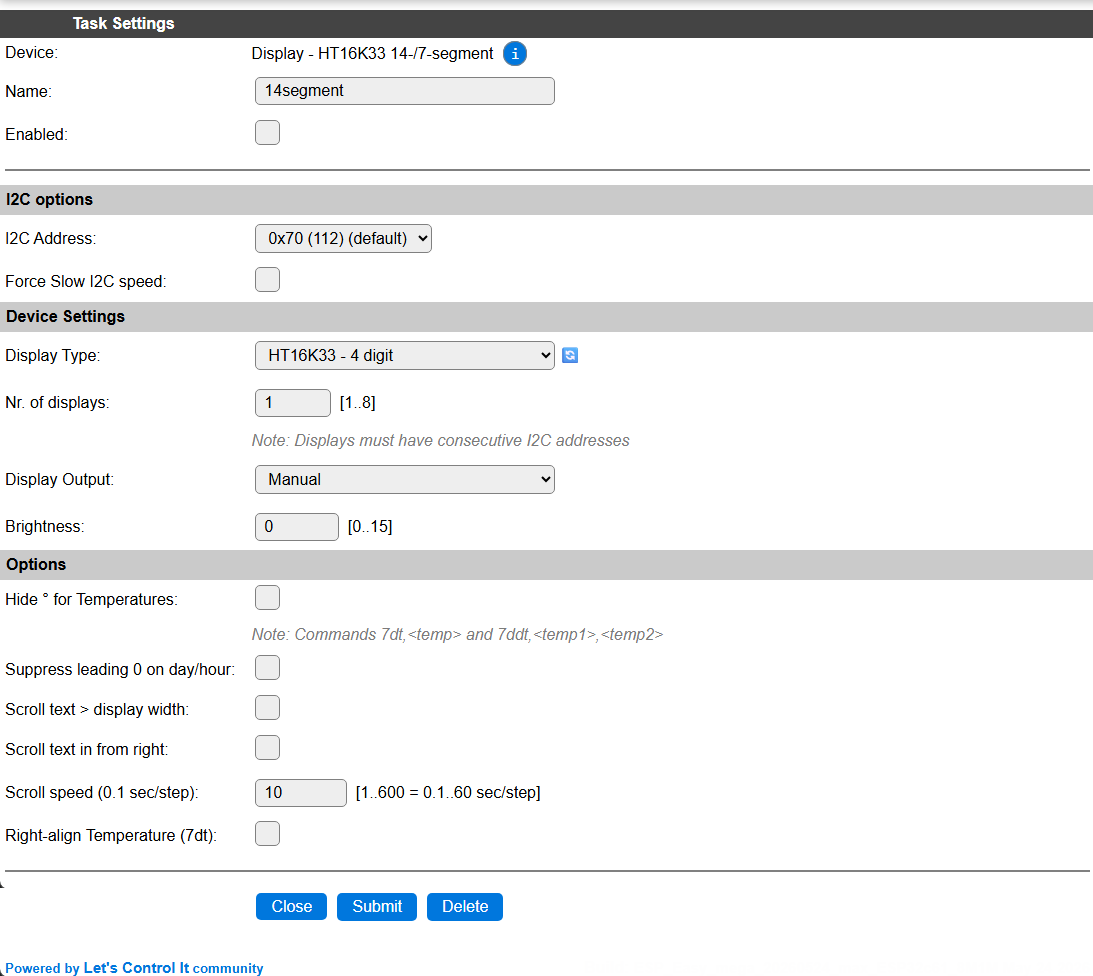
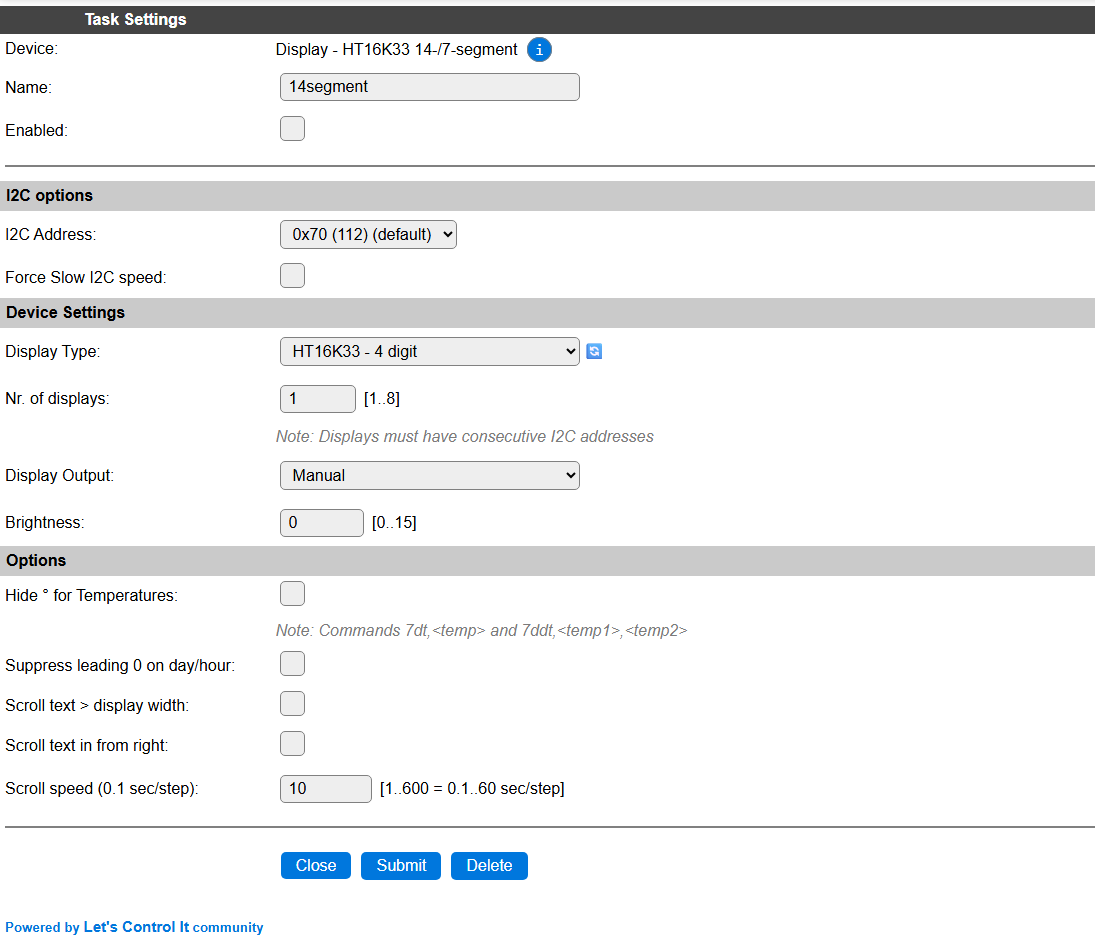
[P157] Update documentation

Changed region(s): [[0.0, 0.0, 1.0, 0.8593], [0.0, 0.6751, 0.9954, 0.9513], [0.0, 0.9513, 0.2489, 1.0]]

diff --git a/docs/source/Plugin/P157.rst b/docs/source/Plugin/P157.rst
@@ -134,7 +134,6 @@ Options
 
 (The Scroll options and feature are not included in some builds for size reasons)
 
-* **Right align Temperature (7dt)**: By default the temperature display on 8 digit or wider displays, is shown right aligned on position 1..7. This option enabled right-aligns the temperature to position 8.
 
 Commands available
 ^^^^^^^^^^^^^^^^^^
